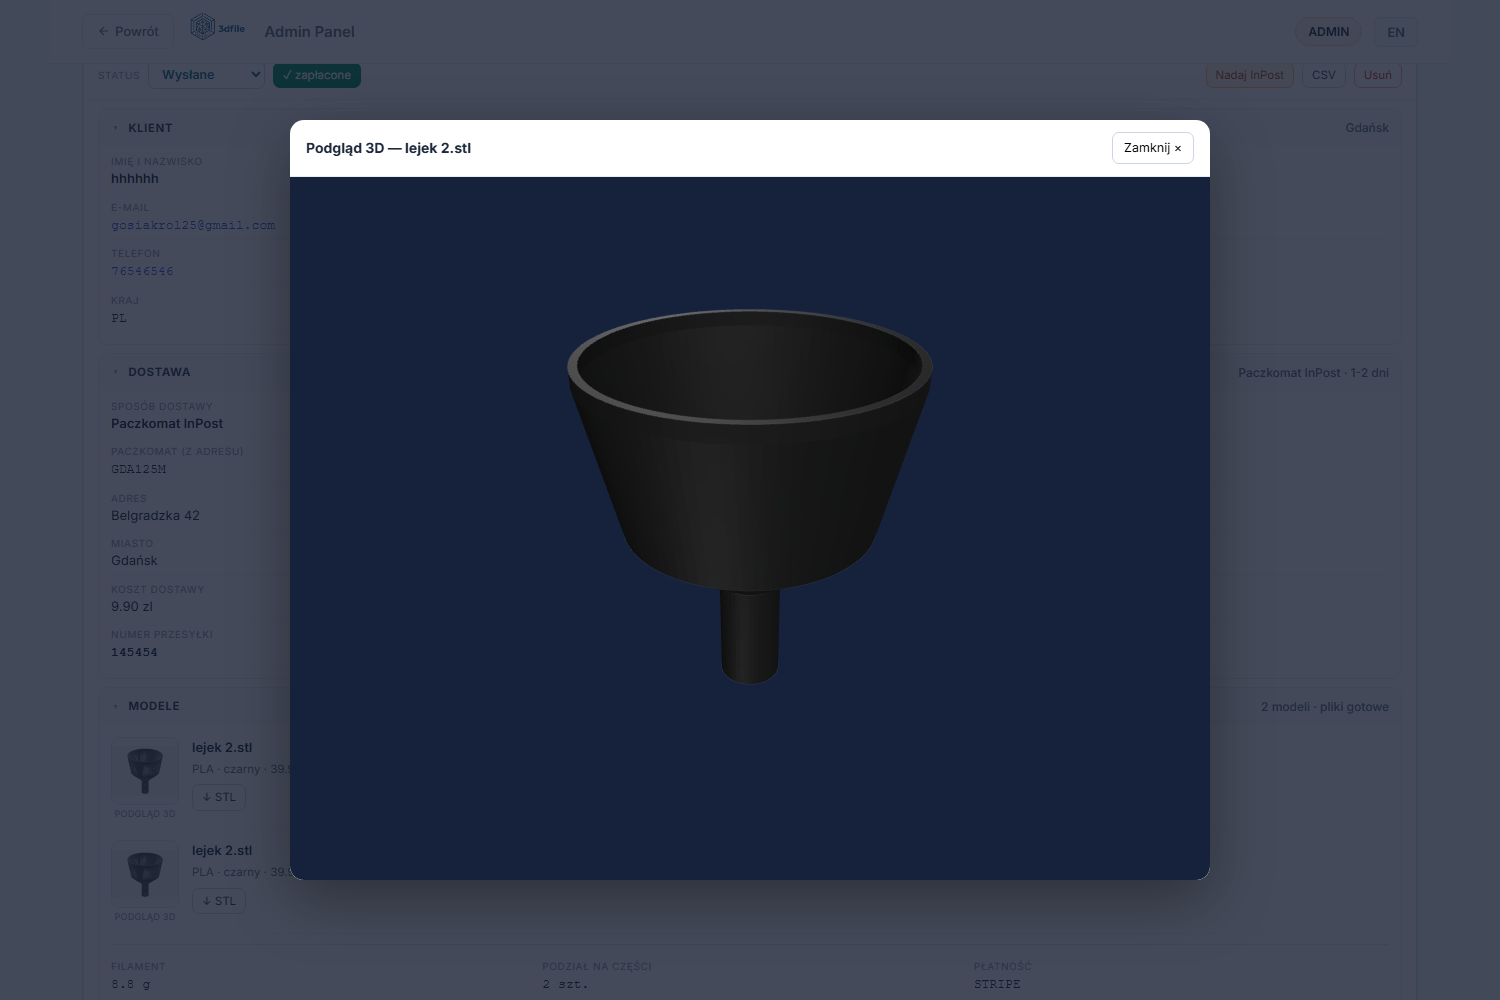
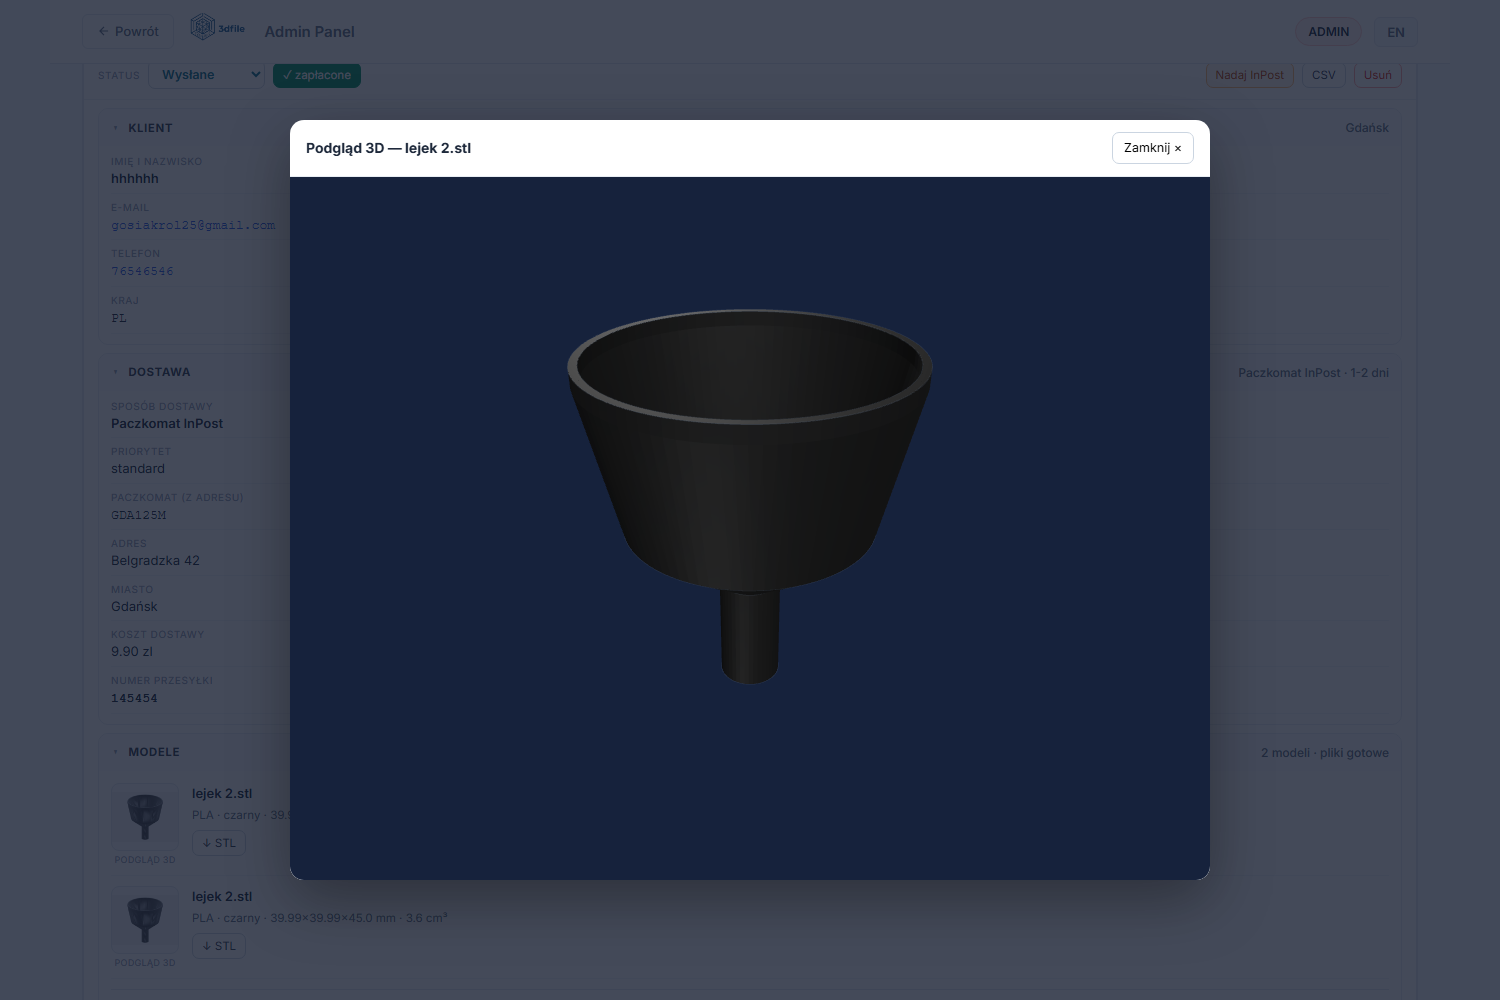
fix(admin): pokaz realna marze (zysk/przychod), nie katalogowy narzut
o.margin_pln = koszt * margin_percent z cennika, ale przy malej
objetosci product_base jest przycinany do min_print, wiec ten narzut
nigdy nie trafia do ceny. Przy 20.00 zl zysku pokazywalo 'Narzut
w cenie 0.88' co wygladalo jak blad. Teraz 'Marza realna' = zysk /
przychod (4.22 / 20.00 = 21.1%). order_card.js?v=5, APP_V 119

diff --git a/frontend/admin.html b/frontend/admin.html
@@ -1,7 +1,7 @@
 <!DOCTYPE html>
 <html lang="pl">
 <head>
-<script>window.__APP_V='118';(function(){try{var k='appV',s=sessionStorage.getItem(k);if(s&&s!=='118'){sessionStorage.setItem(k,'118');if(window.caches&&caches.keys){caches.keys().then(function(a){return Promise.all(a.map(function(n){return caches.delete(n)}))}).then(function(){location.reload()});return}}sessionStorage.setItem(k,'118')}catch(e){}})();</script>
+<script>window.__APP_V='119';(function(){try{var k='appV',s=sessionStorage.getItem(k);if(s&&s!=='119'){sessionStorage.setItem(k,'119');if(window.caches&&caches.keys){caches.keys().then(function(a){return Promise.all(a.map(function(n){return caches.delete(n)}))}).then(function(){location.reload()});return}}sessionStorage.setItem(k,'119')}catch(e){}})();</script>
 
     <meta charset="utf-8">
     <meta name="viewport" content="width=device-width, initial-scale=1">
@@ -2001,7 +2001,7 @@ const I18N = {
 
     </script>
 <script src="/asset/admin_print.js?v=103"></script>
-<script src="/asset/order_card.js?v=4"></script>
+<script src="/asset/order_card.js?v=5"></script>
 <script></script>
     <script src="/asset/admin_analytics.js?v=3"></script>
     <script src="/asset/admin_launch.js?v=2"></script>

diff --git a/frontend/asset/order_card.js b/frontend/asset/order_card.js
@@ -285,7 +285,13 @@
     var totalTxt = zl(o.total) + ((o.currency || 'PLN') === 'PLN' ? '' : ' ' + (o.currency || 'PLN'));
     rev += cell('DO ZAPŁATY', totalTxt, { strong: true, color: '#2B5CE6' });
     rev += cell('ZYSK', zl(profit), { strong: true, color: profit >= 0 ? '#047857' : '#b91c1c' });
-    if (o.margin_pln) rev += cell('Narzut w cenie', zl(o.margin_pln), { color: '#64748b' });
+    // UWAGA: o.margin_pln to narzut KATALOGOWY (koszt * margin_percent z cennika).
+    // Przy malej objętości product_base jest przycinane do min_print, więc ten narzut
+    // nigdy nie trafia do ceny — realna marża to zysk / przychód.
+    var revBase = num(o.total);
+    if (revBase > 0) {
+      rev += cell('Marża realna', (profit / revBase * 100).toFixed(1) + '%', { mono: true, color: '#64748b' });
+    }
 
     g += '<div style="margin-top:10px;padding-top:8px;border-top:1px solid #e2e8f0;'
        + 'font-size:10px;letter-spacing:.06em;text-transform:uppercase;color:#94a3b8">Przychód</div>'
